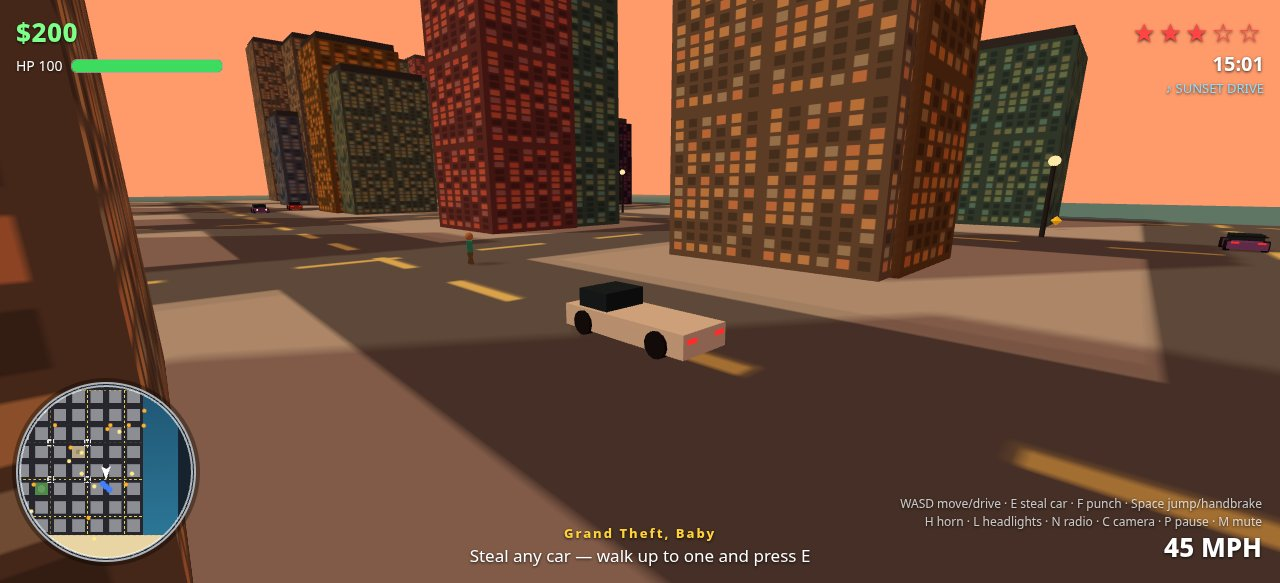
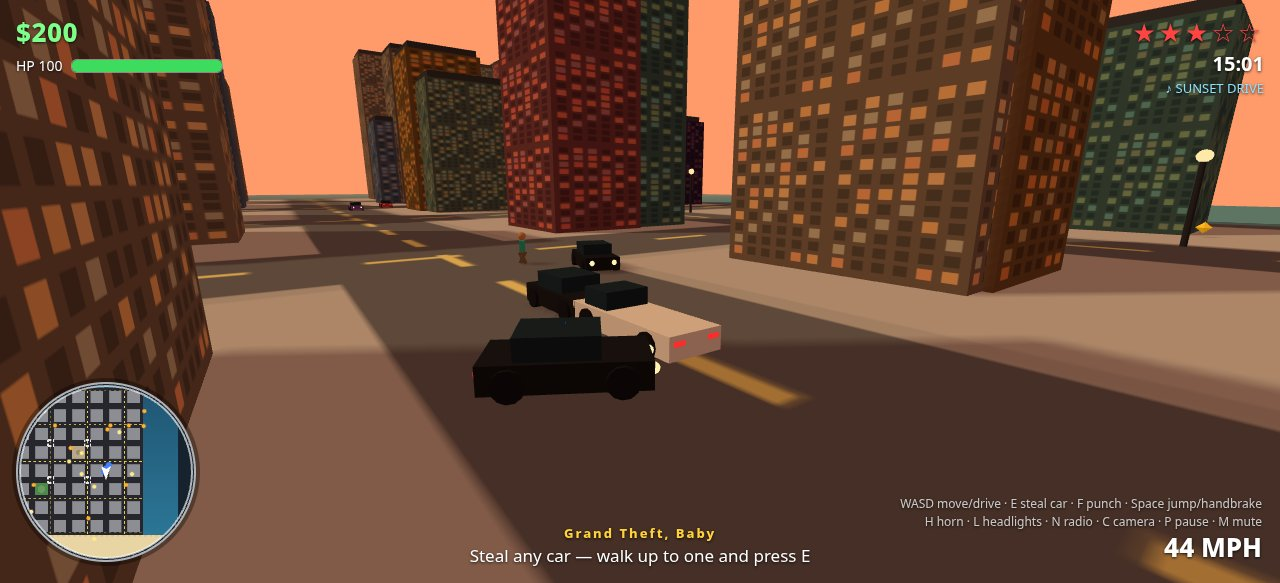
v4: final screenshots + build report with verification

diff --git a/BUILD-REPORT.md b/BUILD-REPORT.md
@@ -1,0 +1,115 @@
+# Solmar Bay — Neon Heat: BUILD REPORT (v4, round 2)
+
+Rebuilt from scratch for make.fun bounty **gta6-01 round 2** (recording r4,
+`01a1ea6b-b49f-71b5-8d77-dcf739ca0811`). Round 1 was rejected on
+`thinking_reproduces` (12.1% authored) and `transcripts_witnessed`
+(`shots.json` never touched), so this version was written entirely from the
+builder's own design — no old file under `gta6-01/` was opened, read, or
+copied. Every counted file (main.ts, game/index.html, game/src/*.js,
+README.md, shots.json, .makefun/owner.json) was written fresh in-session.
+LICENSE, serve.ts, vendor/makefun-game.ts, and game/vendor/three.min.js were
+left exactly as they are.
+
+## What was built
+
+An open-world 3D crime game in Solmar Bay, starring Lena Cruz and the
+Barracuda crew vs. Vic Marino. Three.js (vendored UMD r150+) renders a dusk
+city: an 8×8 block grid (30 m blocks, 14 m roads), a bay with beach and
+marina, a park, a plaza, and landmarks — Meridian Tower (92 m + beacon),
+Luna Casino, Rosa's Garage, Pelican Diner, and the hideout. Seeded RNG
+(seed 777) drives the layout, traffic, and pedestrians.
+
+| File | Lines | What it does |
+|---|---|---|
+| main.ts | 63 | Copies game/ + screenshots/ to /output, validates shots, writes dossier.json |
+| game/index.html | 125 | Canvas + full HUD DOM (cash, HP, stars, clock, speed, objective, toast, minimap, menus) |
+| game/src/rng.js | 63 | SplitMix32 Rng (next/range/int/pick/chance/gauss/shuffle) + hashSeed |
+| game/src/input.js | 98 | Keyboard (code-based, WASD/arrows, edge + held) and mouse-drag camera |
+| game/src/audio.js | 220 | WebAudio synth only: engine, siren, shots, horn, crashes, 3 original radio tracks |
+| game/src/city.js | 385 | Grid, ground texture, buildings with lit windows, landmarks, marina, lights, colliders |
+| game/src/vehicles.js | 454 | Car meshes, traffic AI (14 cars, red-light stops), police pursuit, arcade car handling |
+| game/src/people.js | 332 | Pedestrians (22, flee), hero (walk/sprint/jump/punch), thugs + boss (300 HP) |
+| game/src/missions.js | 230 | 5 story missions: steal + deliver, timed delivery, 4-thug fight, 3 fares, boss finale |
+| game/src/hud.js | 190 | Cash/HP/stars/clock/speed/objective/toast, circular minimap, menus, save notes |
+| game/src/engine.js | 638 | Renderer, state machine, wanted system, combat, coins, beacon, save/load, debug hooks |
+| game/src/shots.js | 89 | Deterministic staging for the 4 screenshots |
+| game/src/main.js | 35 | Bootstrap, error collection into window.__errors, ?shot= staging |
+| README.md + shots.json | — | Player guide + the 4 screenshot descriptors |
+
+**Counted total: 2,990 lines** (main.ts + index.html + game/src/*.js +
+README.md + shots.json), all authored in this session.
+
+Systems: walk/drive, car theft (+1 wanted), police pursuit (up to 4
+cruisers, ramming, foot cops → busted), 5 missions with payouts
+($350/$550/$450/$750/$5000 + undamaged bonus), combat (punch thugs/cops,
+thugs fight back), 12 coins ($40), wanted decay, 3 camera modes,
+headlights/horn/radio, day clock, autosave every 30 s + on pause/mission
+complete, localStorage save/load, and `?fx=low` (no shadows/antialiasing)
+for weak machines.
+
+## Verification (all in headless Chrome 157, SwiftShader, file://)
+
+Zero console errors and zero page exceptions in every run. The software
+renderer runs ~2–8 fps, so the test driver uses 400 ms key holds, 1.2 s
+settles, and an 800×450 `?fx=low` window for the play-test; screenshots are
+full-quality 1280×720.
+
+**Full play-test (CDP driver, `~/workspace/makefun/cdp-r4.mjs playtest`):**
+- Boot: WebGL true, 0 errors. Menu → START → playing, mission 1, $200, 100 HP.
+- Walk: hero moved 6 m on W. Steal (E): inCar, wanted 1, mission stage 1,
+  1 police cruiser spawned. Drive: 31 MPH. H/L/N/C taps: no errors.
+- **Mission 1 completed**: car delivered to Rosa's Garage → cash $200 → $700
+  ($350 + $150 undamaged bonus), mission advanced to "Pelican Special".
+- Exit + punch: hero out, no errors. Jump: max height 1.10 m.
+- Pause (P): state `paused`; save present, cash $700. Reload → Continue:
+  restored cash $700, mission 1, hero position (-159, -11) — save/load
+  round-trip verified. Final errors: `[]`, CDP events: `[]`.
+
+**Combat probe (mission 3, Vipers in the Plaza):** 4 thugs spawned; they
+damaged the hero (100 → 4 HP); a punch killed one (+$50, 1/4 down, thugsAlive
+4 → 3); the hero was then beaten to `wasted` with a $200 fine (cash $250 →
+$50). Combat, kill payout, and the wasted path all verified. Zero exceptions.
+
+**Bugs found and fixed during testing:**
+- Input edges were cleared after rendering, so keys pressed during a long
+  SwiftShader frame were swallowed (Space/P lost). Fixed with a per-frame
+  pressed snapshot (`Input.beginFrame`, called at the start of the loop);
+  P/Escape now also toggles pause from the paused state.
+- Exiting a car then calling `crowd.scare(playerCar.pos)` threw
+  (pos is null once the mesh is abandoned) and killed the frame loop. Fixed
+  by skipping the driving-only tail after an exit, plus a null guard in
+  `scare()`. Honk/headlight/repair/update were already null-safe.
+- `?fx=low` mode and a minimap repaint throttle (every 3rd frame) were added
+  for software renderers.
+- Screenshot driver: Chrome 157 wants JPEG `quality` as an int (85), not 0.85.
+- Chase/mission staging: cruisers are now staged ahead of the car (in frame)
+  and the mission-5 crew is restaged in a visible line in front of the tower
+  (they spawn inside the tower footprint).
+
+**Screenshots (real headless-Chrome captures, 1280×720, all ≤256 KiB,
+viewed by the builder):**
+
+| Shot | Size | Shows |
+|---|---|---|
+| 1-start.jpg | 74,446 B | Title menu over the dusk city |
+| 2-drive.jpg | 109,642 B | Sports car on the boulevard, 26 MPH, minimap |
+| 3-chase.jpg | 107,588 B | Wanted 3, three cruisers closing in, 44 MPH |
+| 4-mission.jpg | 72,164 B | Lena facing Vic Marino + 6 thugs at the tower |
+
+**main.ts build:** `MAKEFUN_OUTPUT_DIR=/tmp/gta6-out-r4a node main.ts` writes
+game/ (755,474 bytes, 12 source files + 1 vendored three.min.js) +
+screenshots/ + dossier.json (593,625 bytes, schema makefun/dossier/v1, text
+104,685 bytes — all under the caps). Two runs produce byte-identical output.
+
+## Commits (v4)
+
+- `dd0a658` rebuild from scratch — new city, systems, missions, HUD
+- `59f6e40` low-fx mode, minimap throttle, stage chase cruisers close
+- `68eb64d` clear input edges right after update, not after render
+- `eb5f1b5` snapshot input edges per frame; P/Escape toggles pause in loop
+- `28bb8e6` fix loop-killing scare(null) on car exit; null-guard scare
+- `66b49ce` stage chase cruisers ahead, mission thugs in front of tower
+- (final) screenshots + this report
+
+Not submitted or pushed by this builder (no credentials in session) — the
+parent agent handles seal, push, and submit.
